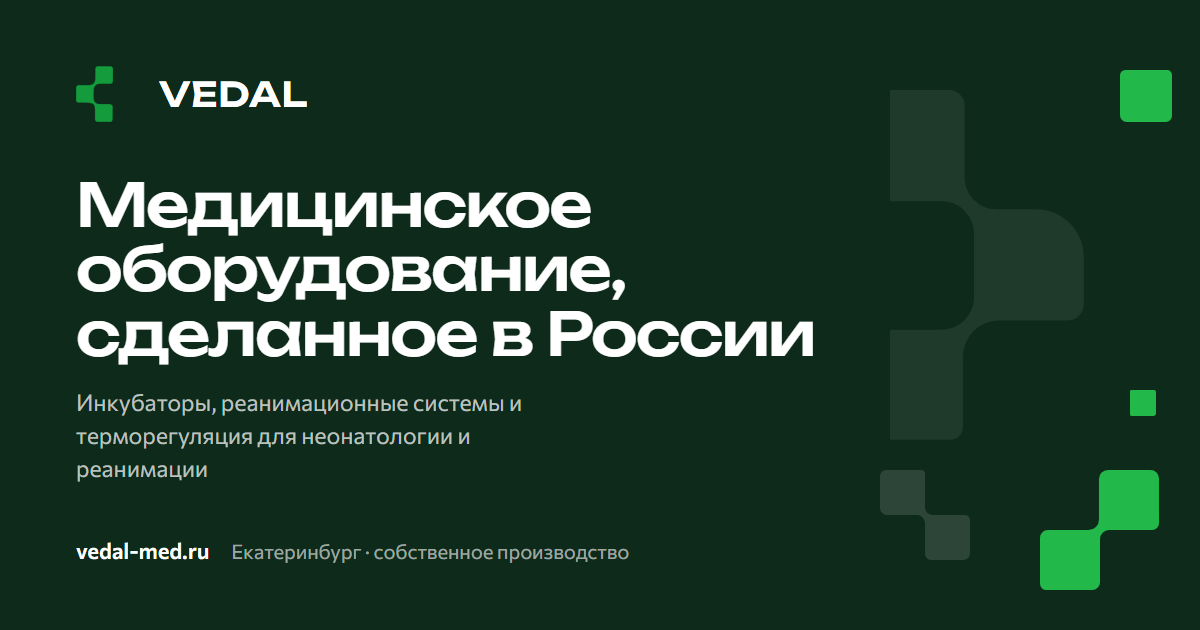
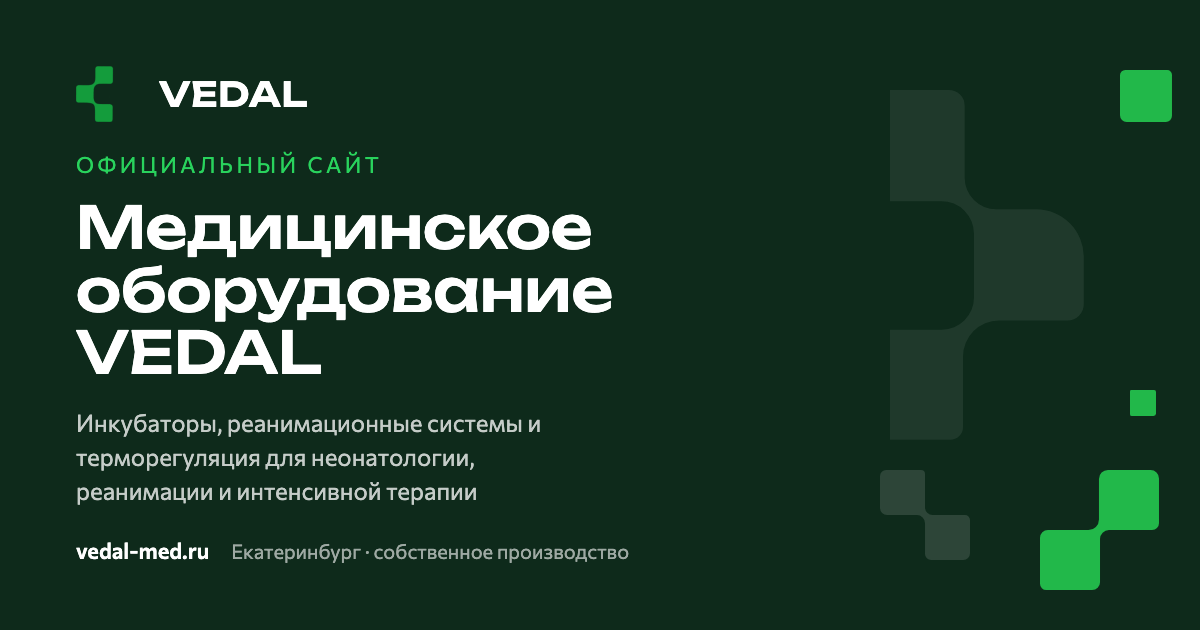
Improve VEDAL link preview metadata

diff --git a/frontend/content/ui.ts b/frontend/content/ui.ts
@@ -240,9 +240,9 @@ export type UiStrings = {
 
 export const ui: UiStrings = {
   meta: {
-    siteTitle: "VEDAL — российское медицинское оборудование",
+    siteTitle: "VEDAL — медицинское оборудование",
     siteDescription:
-      "Собственное производство и современные решения для неонатологии, реанимации, анестезиологии и интенсивной терапии.",
+      "Российский производитель оборудования для неонатологии, реанимации и интенсивной терапии.",
     about: "О компании — VEDAL",
     products: "Каталог оборудования — VEDAL",
     productsLead:
@@ -435,4 +435,3 @@ export const ui: UiStrings = {
       "Если сюда привела ссылка с сайта — сообщите, поправим: позвоните или напишите на общий адрес.",
   },
 };
-

diff --git a/frontend/content/site.ts b/frontend/content/site.ts
@@ -33,9 +33,9 @@ export const site = {
 // ответа НН. До согласования — только факты из page_briefs.md, без заявлений
 // о сертификации, ценах и клинических свойствах.
 export const siteSeo = {
-  title: "VEDAL — российское медицинское оборудование",
+  title: "VEDAL — медицинское оборудование",
   description:
-    "Собственное производство и современные решения для неонатологии, реанимации, анестезиологии и интенсивной терапии.",
+    "Российский производитель оборудования для неонатологии, реанимации и интенсивной терапии.",
 };
 
 // CTA шапки по макету заказчика. В hero остаётся «Запросить КП».
